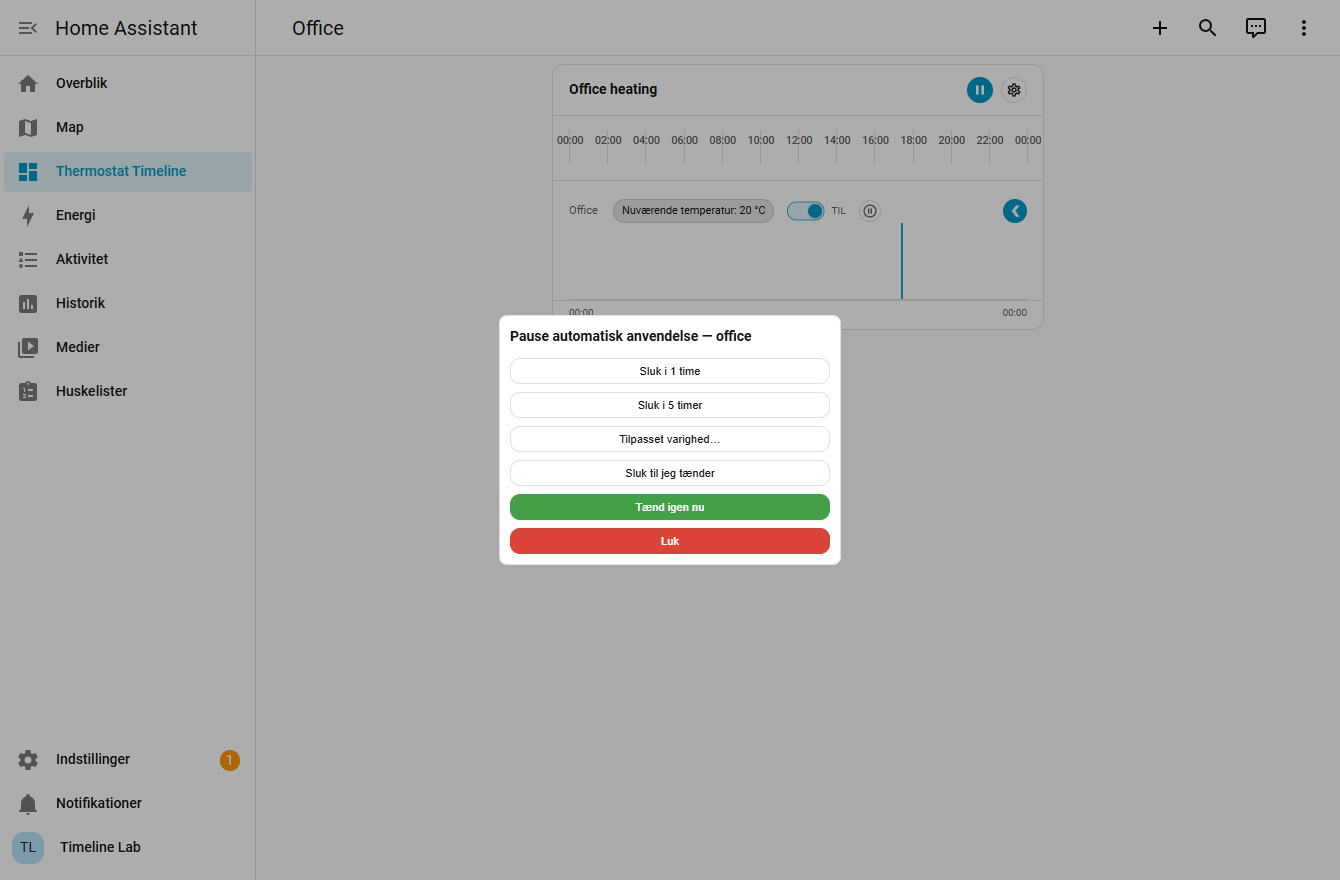
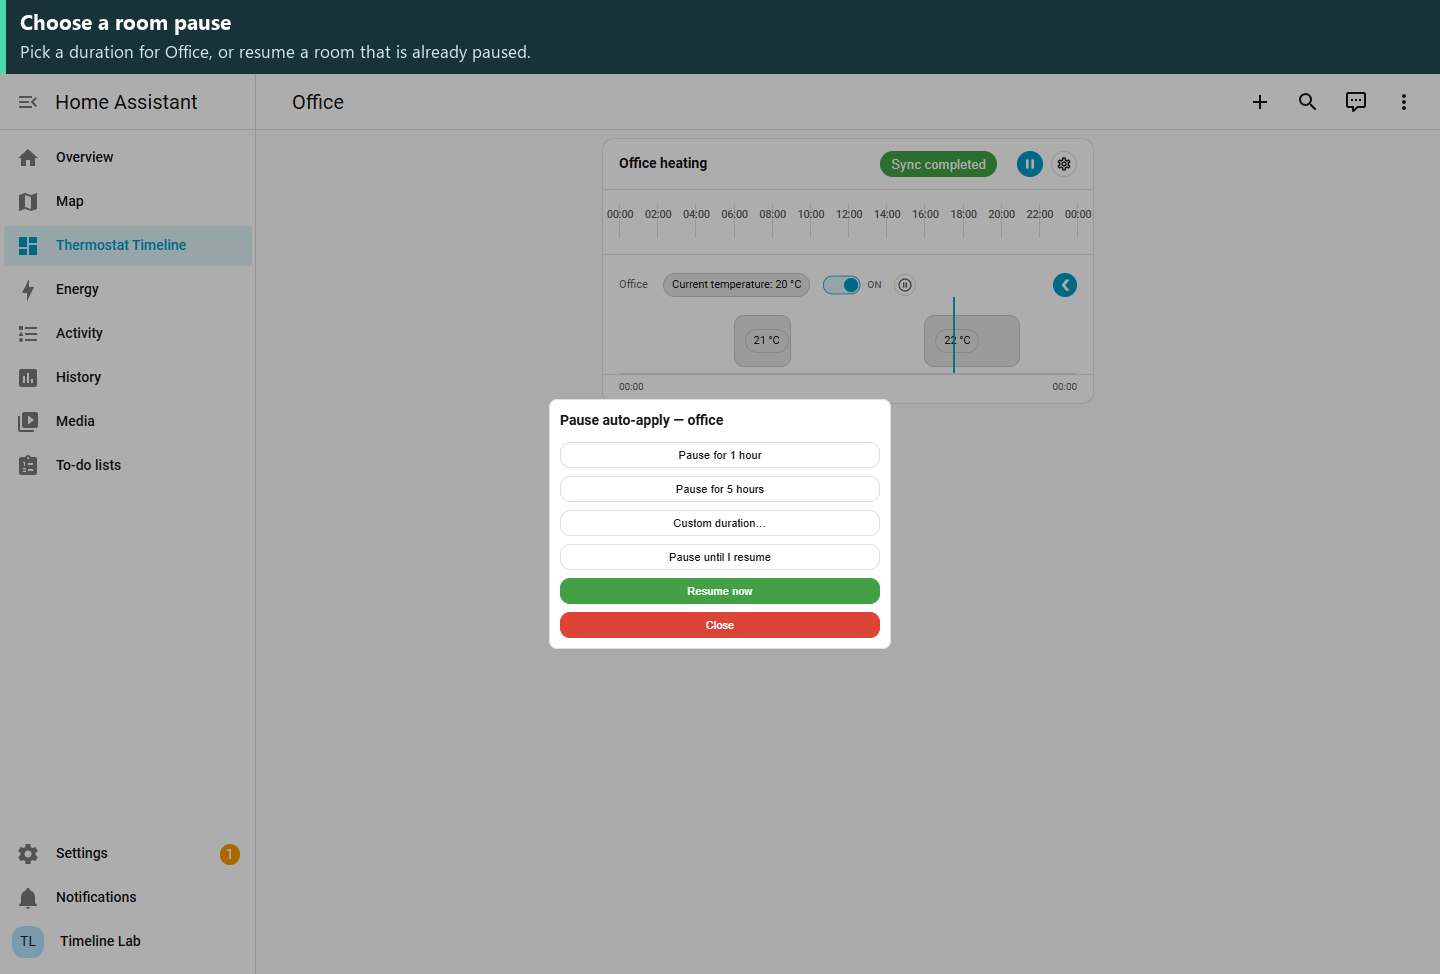
Add English desktop walkthroughs and annotated Home Assistant screenshots

diff --git a/docs/scripts/walkthroughs.js b/docs/scripts/walkthroughs.js
@@ -1,0 +1,22 @@
+// Plain Markdown links also work when these pages are read on GitHub.
+document.querySelectorAll(".md-typeset a").forEach(link => {
+  if (link.textContent !== "Play walkthrough") return;
+  const preview = link.closest("p")?.previousElementSibling?.querySelector("a img");
+  if (!preview) return;
+  const still = preview.src;
+  const animation = link.href;
+  const button = document.createElement("button");
+  button.type = "button";
+  button.className = "walkthrough-toggle";
+  button.textContent = link.textContent;
+  button.setAttribute("aria-pressed", "false");
+  button.setAttribute("aria-label", "Play walkthrough: " + preview.alt);
+  button.addEventListener("click", () => {
+    const play = button.getAttribute("aria-pressed") !== "true";
+    preview.src = play ? animation : still;
+    button.setAttribute("aria-pressed", String(play));
+    button.textContent = play ? "Show still image" : "Play walkthrough";
+    button.setAttribute("aria-label", button.textContent + ": " + preview.alt);
+  });
+  link.replaceWith(button);
+});

diff --git a/docs/styles/guide.css b/docs/styles/guide.css
@@ -1,0 +1,5 @@
+:root { --md-primary-fg-color: #19454a; --md-accent-fg-color: #08786a; }
+.md-grid { max-width: 84rem; }
+.md-typeset img[src*="images/"] { border: 1px solid #84969966; border-radius: .4rem; }
+.md-typeset .walkthrough-toggle { background: #165e59; border-radius: .3rem; color: white; cursor: pointer; font: inherit; padding: .35em .8em; }
+.md-typeset .walkthrough-toggle:focus-visible { outline: 3px solid #dc8726; outline-offset: 3px; }

diff --git a/docs/walkthroughs.md b/docs/walkthroughs.md
@@ -1,0 +1,24 @@
+# Visual walkthroughs
+
+Choose a task to see it in Home Assistant. Each guide pairs a desktop screenshot with an animation. Select **Play walkthrough** to follow the pointer, or **Full-size GIF** to see the original resolution.
+
+
+## Start with the timeline
+
+| Edit a block | Pause one room |
+| --- | --- |
+| [![Block editor on the Office timeline](images/edit-block-view.png)](getting-started/quick-start.md#edit-a-scheduled-block) | [![A timed pause for Office](images/room-pause-view.png)](card/features/pause.md#pause-one-room-for-an-hour) |
+| [Open the block editor guide](getting-started/quick-start.md#edit-a-scheduled-block) | [Open the room pause guide](card/features/pause.md#pause-one-room-for-an-hour) |
+
+## All walkthroughs
+
+| Task | What to look for |
+| --- | --- |
+| [Edit a scheduled block](getting-started/quick-start.md#edit-a-scheduled-block) | Block times and target temperature |
+| [Pause one room for an hour](card/features/pause.md#pause-one-room-for-an-hour) | Timed pause on the room row |
+| [Resume a paused room](card/features/pause.md#resume-a-paused-room) | Returning to the room schedule |
+| [Enable summer and winter schedules](card/features/seasonal.md#enable-summer-and-winter-schedules) | Season switch in the general settings |
+| [Choose a weekday grouping](card/features/weekdays.md#choose-a-weekday-grouping) | Day grouping options |
+| [Set up window detection](card/features/open-window.md#set-up-window-detection) | Sensor assignment and delays |
+| [Choose a holiday source](card/features/holidays.md#choose-a-holiday-source) | Calendar or manual dates |
+| [Find the boiler relay settings](card/features/boiler.md#find-the-boiler-relay-settings) | Relay and room selection |

diff --git a/docs/card/features/pause.md b/docs/card/features/pause.md
@@ -11,3 +11,19 @@
 **Adjust a thermostat manually.** With background auto-apply enabled, a detected manual change to a climate target creates a timed room pause. For example, a change from 21 to 22.5 degrees during a block lasts until the room’s next effective block start or end, or until midnight. Returning to the scheduled target cancels the generated hold. An explicit room pause takes precedence.
 
 **After a restart.** Timeline saves the hold. The thermostat integration restores its own temperature. Opening an existing shared dashboard in v3.3.3 reads the shared schedule without saving the browser’s copy over it.
+
+## Pause one room for an hour
+
+Choose the pause circle on the **Office row**, then **one hour**. A countdown beside the room confirms which schedule is paused.
+
+[![Pause one room for an hour in Home Assistant](../../images/room-pause-view.png)](../../images/room-pause.gif)
+
+[Play walkthrough](../../images/room-pause.gif) | [Full-size GIF](../../images/room-pause.gif)
+
+## Resume a paused room
+
+Open the same room menu and choose the resume action. The room countdown disappears. Check the global pause button if the schedule still appears suspended.
+
+[![Resume a paused room in Home Assistant](../../images/room-resume-view.png)](../../images/room-resume.gif)
+
+[Play walkthrough](../../images/room-resume.gif) | [Full-size GIF](../../images/room-resume.gif)

diff --git a/docs/getting-started/quick-start.md b/docs/getting-started/quick-start.md
@@ -21,3 +21,11 @@ Save the card. Check that the room name and measured temperature appear. The sma
 Use a test room for the first run. Add a short block that starts a few minutes ahead and choose a target different from the room default. Double-click or double-tap an existing block to edit its time and temperature. With shared storage and auto-apply active, close the dashboard and check the thermostat's **target temperature** at the boundary. The measured air temperature can take much longer to change.
 
 [Explore card settings](../card/configuration.md) · [Pause a room](../card/features/pause.md)
+
+## Edit a scheduled block
+
+The example opens the 06:00 to 09:00 Office block. Set the start time, end time and target in the same dialog. Select **Save** to apply an edit or **Cancel** to leave the block as it was.
+
+[![Edit a scheduled block in Home Assistant](../images/edit-block-view.png)](../images/edit-block.gif)
+
+[Play walkthrough](../images/edit-block.gif) | [Full-size GIF](../images/edit-block.gif)

diff --git a/docs/card/features/weekdays.md b/docs/card/features/weekdays.md
@@ -4,6 +4,14 @@ Open the settings gear and choose the Weekdays tab. Start with weekday/weekend g
 
 Select the day or group before editing a block. Switch the view to compare one room across days, or several rooms on the same day.
 
+## Choose a weekday grouping
+
+Open **Settings > Weekdays** and enable weekday schedules. If **Copy main schedule** opens, choose which day group should receive a copy, or select **Don?t copy** to start separately. Group Monday through Friday together for a regular workweek, or choose individual days for different routines.
+
+[![Choose a weekday grouping in Home Assistant](../../images/weekdays-view.png)](../../images/weekdays.gif)
+
+[Play walkthrough](../../images/weekdays.gif) | [Full-size GIF](../../images/weekdays.gif)
+
 ## Settings
 
 - weekdays_enabled: true/false to enable weekday schedules.

diff --git a/README.md b/README.md
@@ -1,7 +1,7 @@
 # ❄ Thermostat Pro Timeline — Integration + Card
 [![hacs\_badge](https://img.shields.io/badge/HACS-Default-blue.svg)](https://hacs.xyz) [![Downloads](https://img.shields.io/github/downloads/qlerup/thermostat-pro-timeline/total)](https://github.com/qlerup/thermostat-pro-timeline/releases)
 
-**[User guide](docs/index.md)** | [Install](docs/getting-started/installation.md) | [Add your first room](docs/getting-started/quick-start.md) | [Pause a room](docs/card/features/pause.md)
+**[User guide](docs/index.md)** | [Visual walkthroughs](docs/walkthroughs.md) | [Install](docs/getting-started/installation.md) | [Add your first room](docs/getting-started/quick-start.md) | [Pause a room](docs/card/features/pause.md)
 
 ## Support this project
 

diff --git a/docs/card/features/open-window.md b/docs/card/features/open-window.md
@@ -4,6 +4,14 @@ In the settings gear, open **Open Window Detection**. Enable it, choose a room, 
 
 To verify the mapping, open the assigned sensor for longer than the opening delay, then close all assigned sensors and wait for the closing delay. Use a simulated room first if the thermostat also has its own window detection.
 
+## Set up window detection
+
+Open **Settings > Open Window Detection** and enable the feature. Assign the contact sensor to its room and set separate opening and closing delays before saving.
+
+[![Set up window detection in Home Assistant](../../images/window-view.png)](../../images/window.gif)
+
+[Play walkthrough](../../images/window.gif) | [Full-size GIF](../../images/window.gif)
+
 ## Settings
 
 - open_window:

diff --git a/docs/card/features/seasonal.md b/docs/card/features/seasonal.md
@@ -11,3 +11,11 @@
 The season selects which timetable applies. To suspend schedule updates for a single room, use its [room pause](pause.md). Selecting Summer alone does not send an HVAC off command.
 
 The stored settings are `seasonal_enabled` and `seasonal_mode` (`summer` or `winter`).
+
+## Enable summer and winter schedules
+
+Open the settings gear and stay on the first tab. Enable **summer/winter schedules** and save when you are ready to use separate timetables.
+
+[![Enable summer and winter schedules in Home Assistant](../../images/season-view.png)](../../images/season.gif)
+
+[Play walkthrough](../../images/season.gif) | [Full-size GIF](../../images/season.gif)

diff --git a/docs/card/features/boiler.md b/docs/card/features/boiler.md
@@ -14,3 +14,11 @@
 		- switch: switch.boiler_1 (or input_boolean.boiler_1)
 		- switch_domain: switch | input_boolean (optional if entity id includes domain)
 		- on_offset / off_offset: optional per‑room offsets (°C)
+
+## Find the boiler relay settings
+
+Open **Settings > Boiler control** and enable the controls. Select the relay and participating rooms before saving. The example stops at the setup screen in a simulated installation.
+
+[![Find the boiler relay settings in Home Assistant](../../images/boiler-view.png)](../../images/boiler.gif)
+
+[Play walkthrough](../../images/boiler.gif) | [Full-size GIF](../../images/boiler.gif)

diff --git a/docs/card/features/holidays.md b/docs/card/features/holidays.md
@@ -4,3 +4,11 @@
 - holidays_source: calendar | manual
 - holidays_entity: calendar.* or a binary sensor that is on during holidays
 - holidays_dates: [ "YYYY-MM-DD", ... ] manual date list when using manual source
+
+## Choose a holiday source
+
+Open **Settings > Holidays** and enable holiday schedules. Use a calendar for recurring holidays, or enter specific dates manually. Save the selected source before editing the holiday timetable.
+
+[![Choose a holiday source in Home Assistant](../../images/holidays-view.png)](../../images/holidays.gif)
+
+[Play walkthrough](../../images/holidays.gif) | [Full-size GIF](../../images/holidays.gif)

diff --git a/docs/index.md b/docs/index.md
@@ -4,6 +4,10 @@ Build a daily heating schedule for each room. With shared storage and auto-apply
 
 ![Office timeline showing the current temperature, room pause and settings controls](images/office-dashboard.png)
 
+## Find a guide
+
+[Browse the visual walkthroughs](walkthroughs.md) for step-by-step demonstrations in the desktop dashboard.
+
 | I want to… | Guide |
 | --- | --- |
 | Install the integration and bundled card | [Installation](getting-started/installation.md) |
